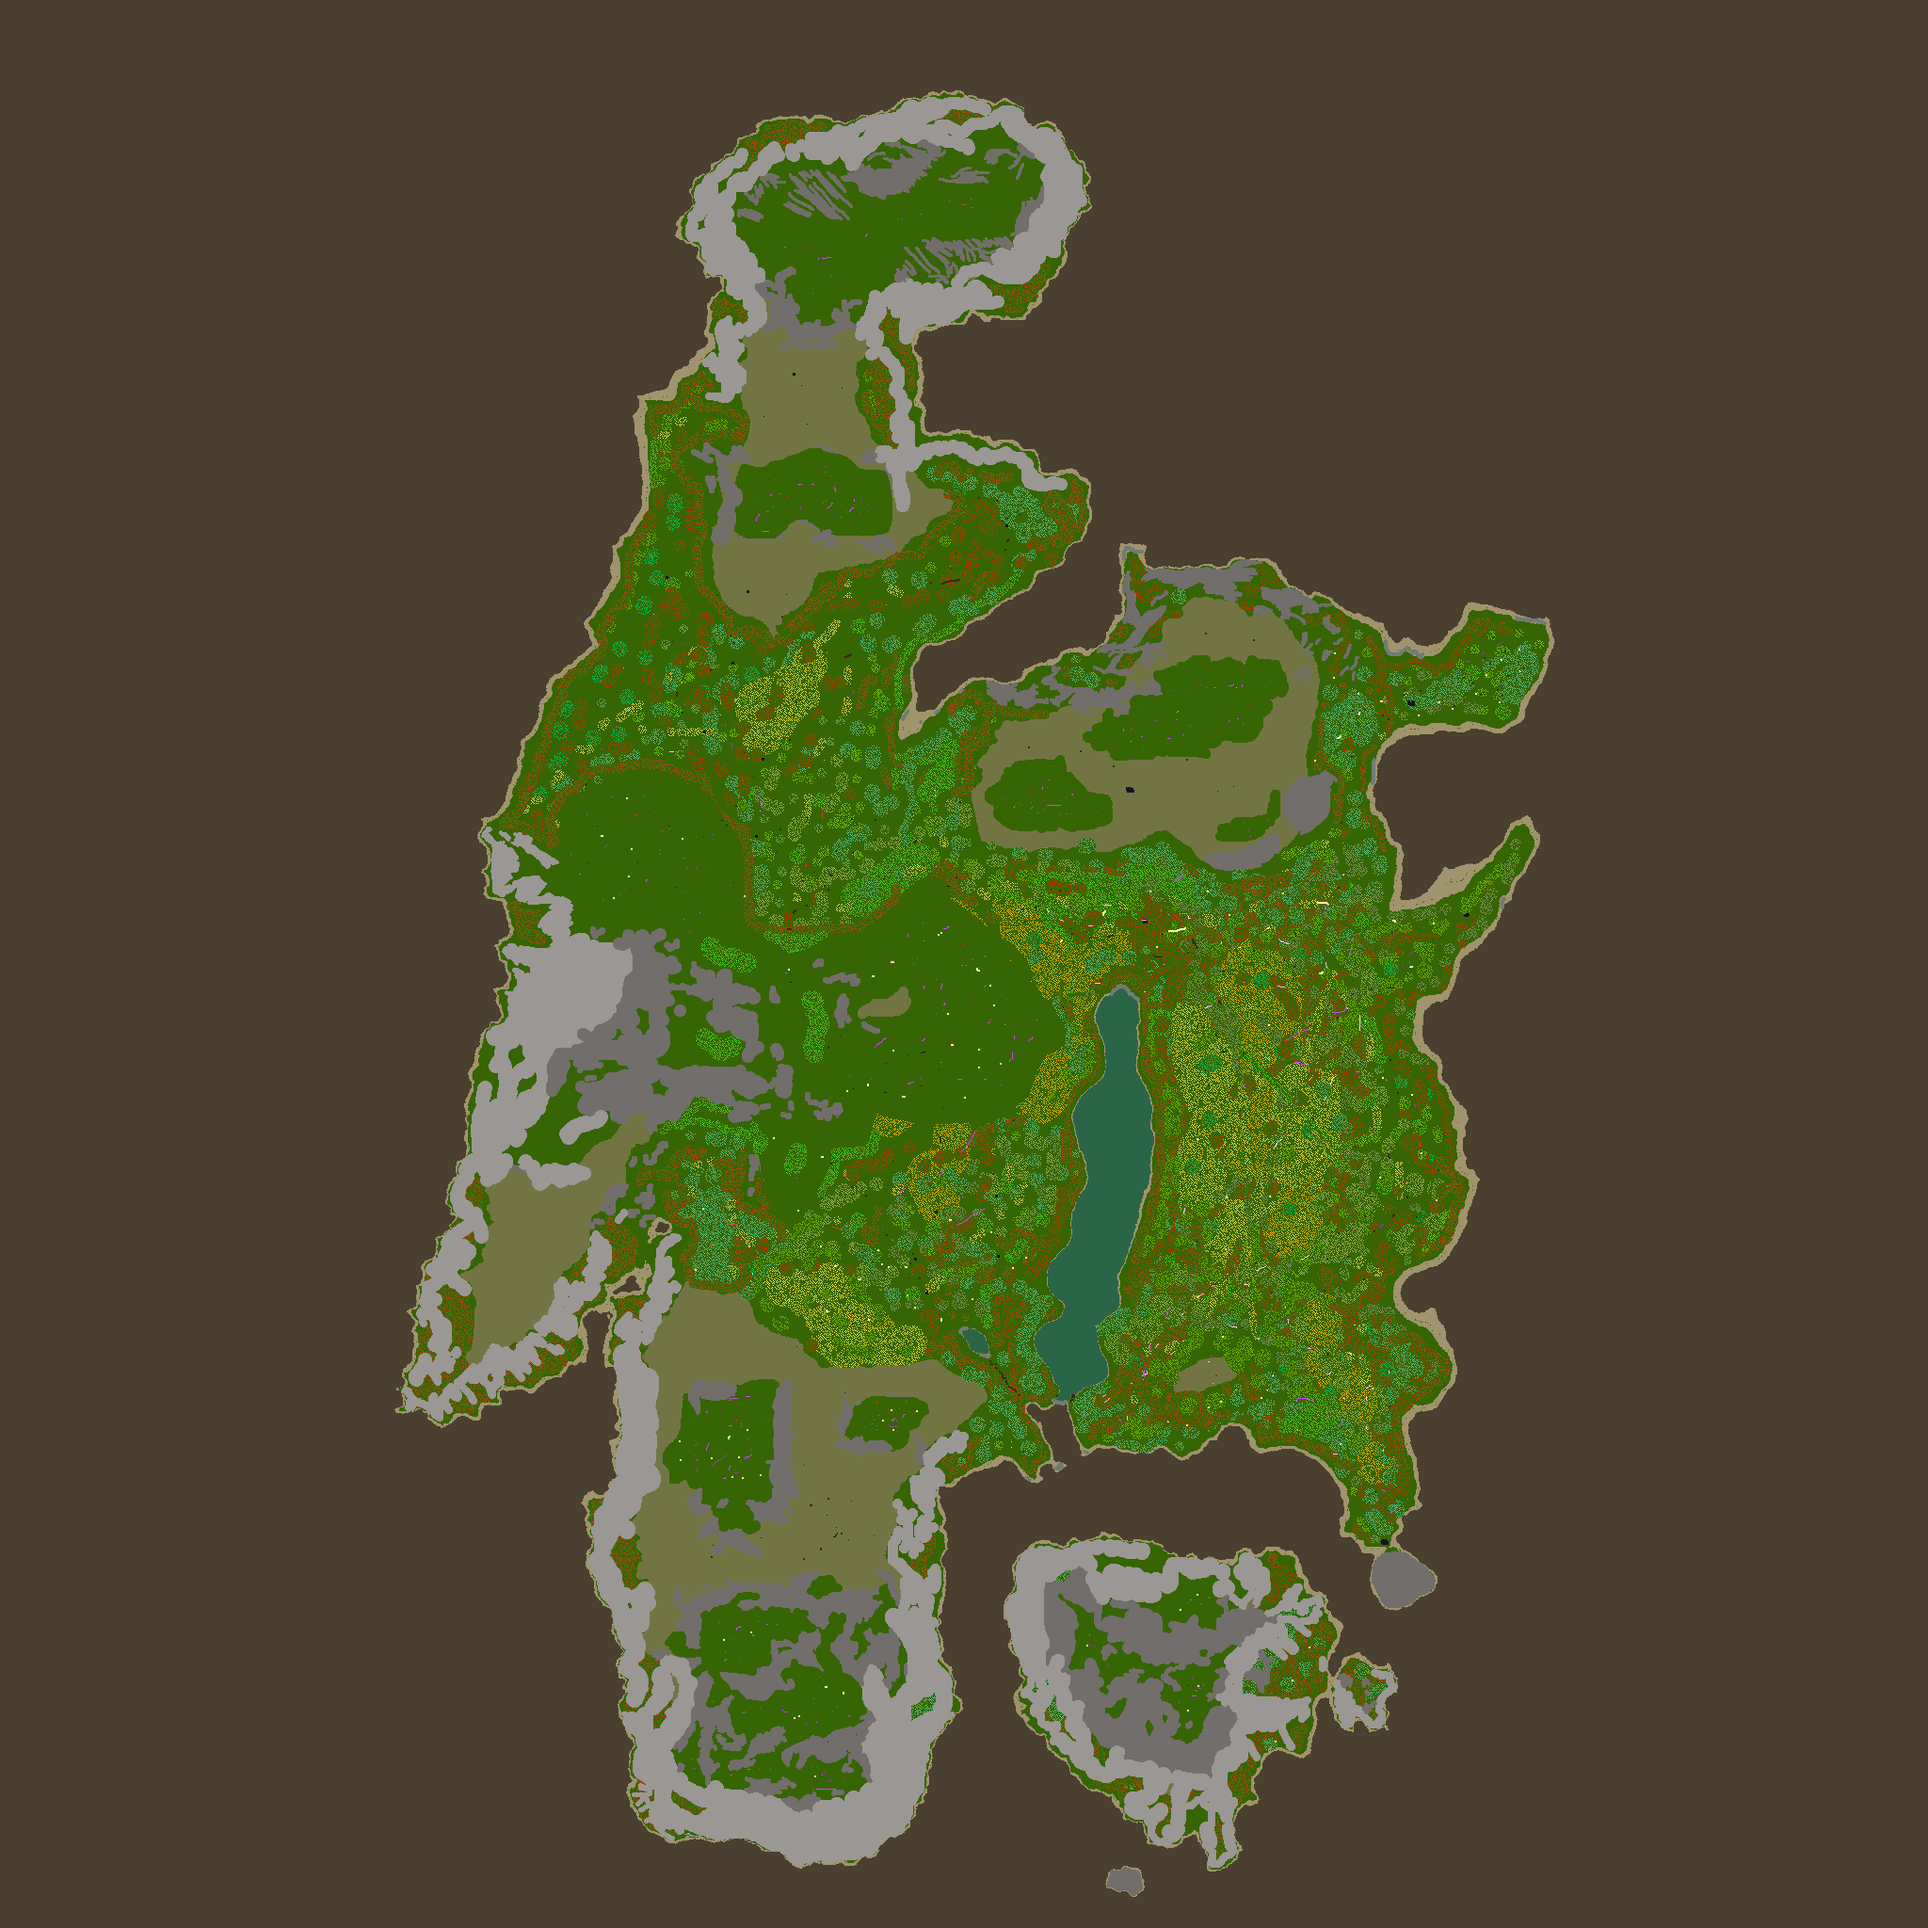
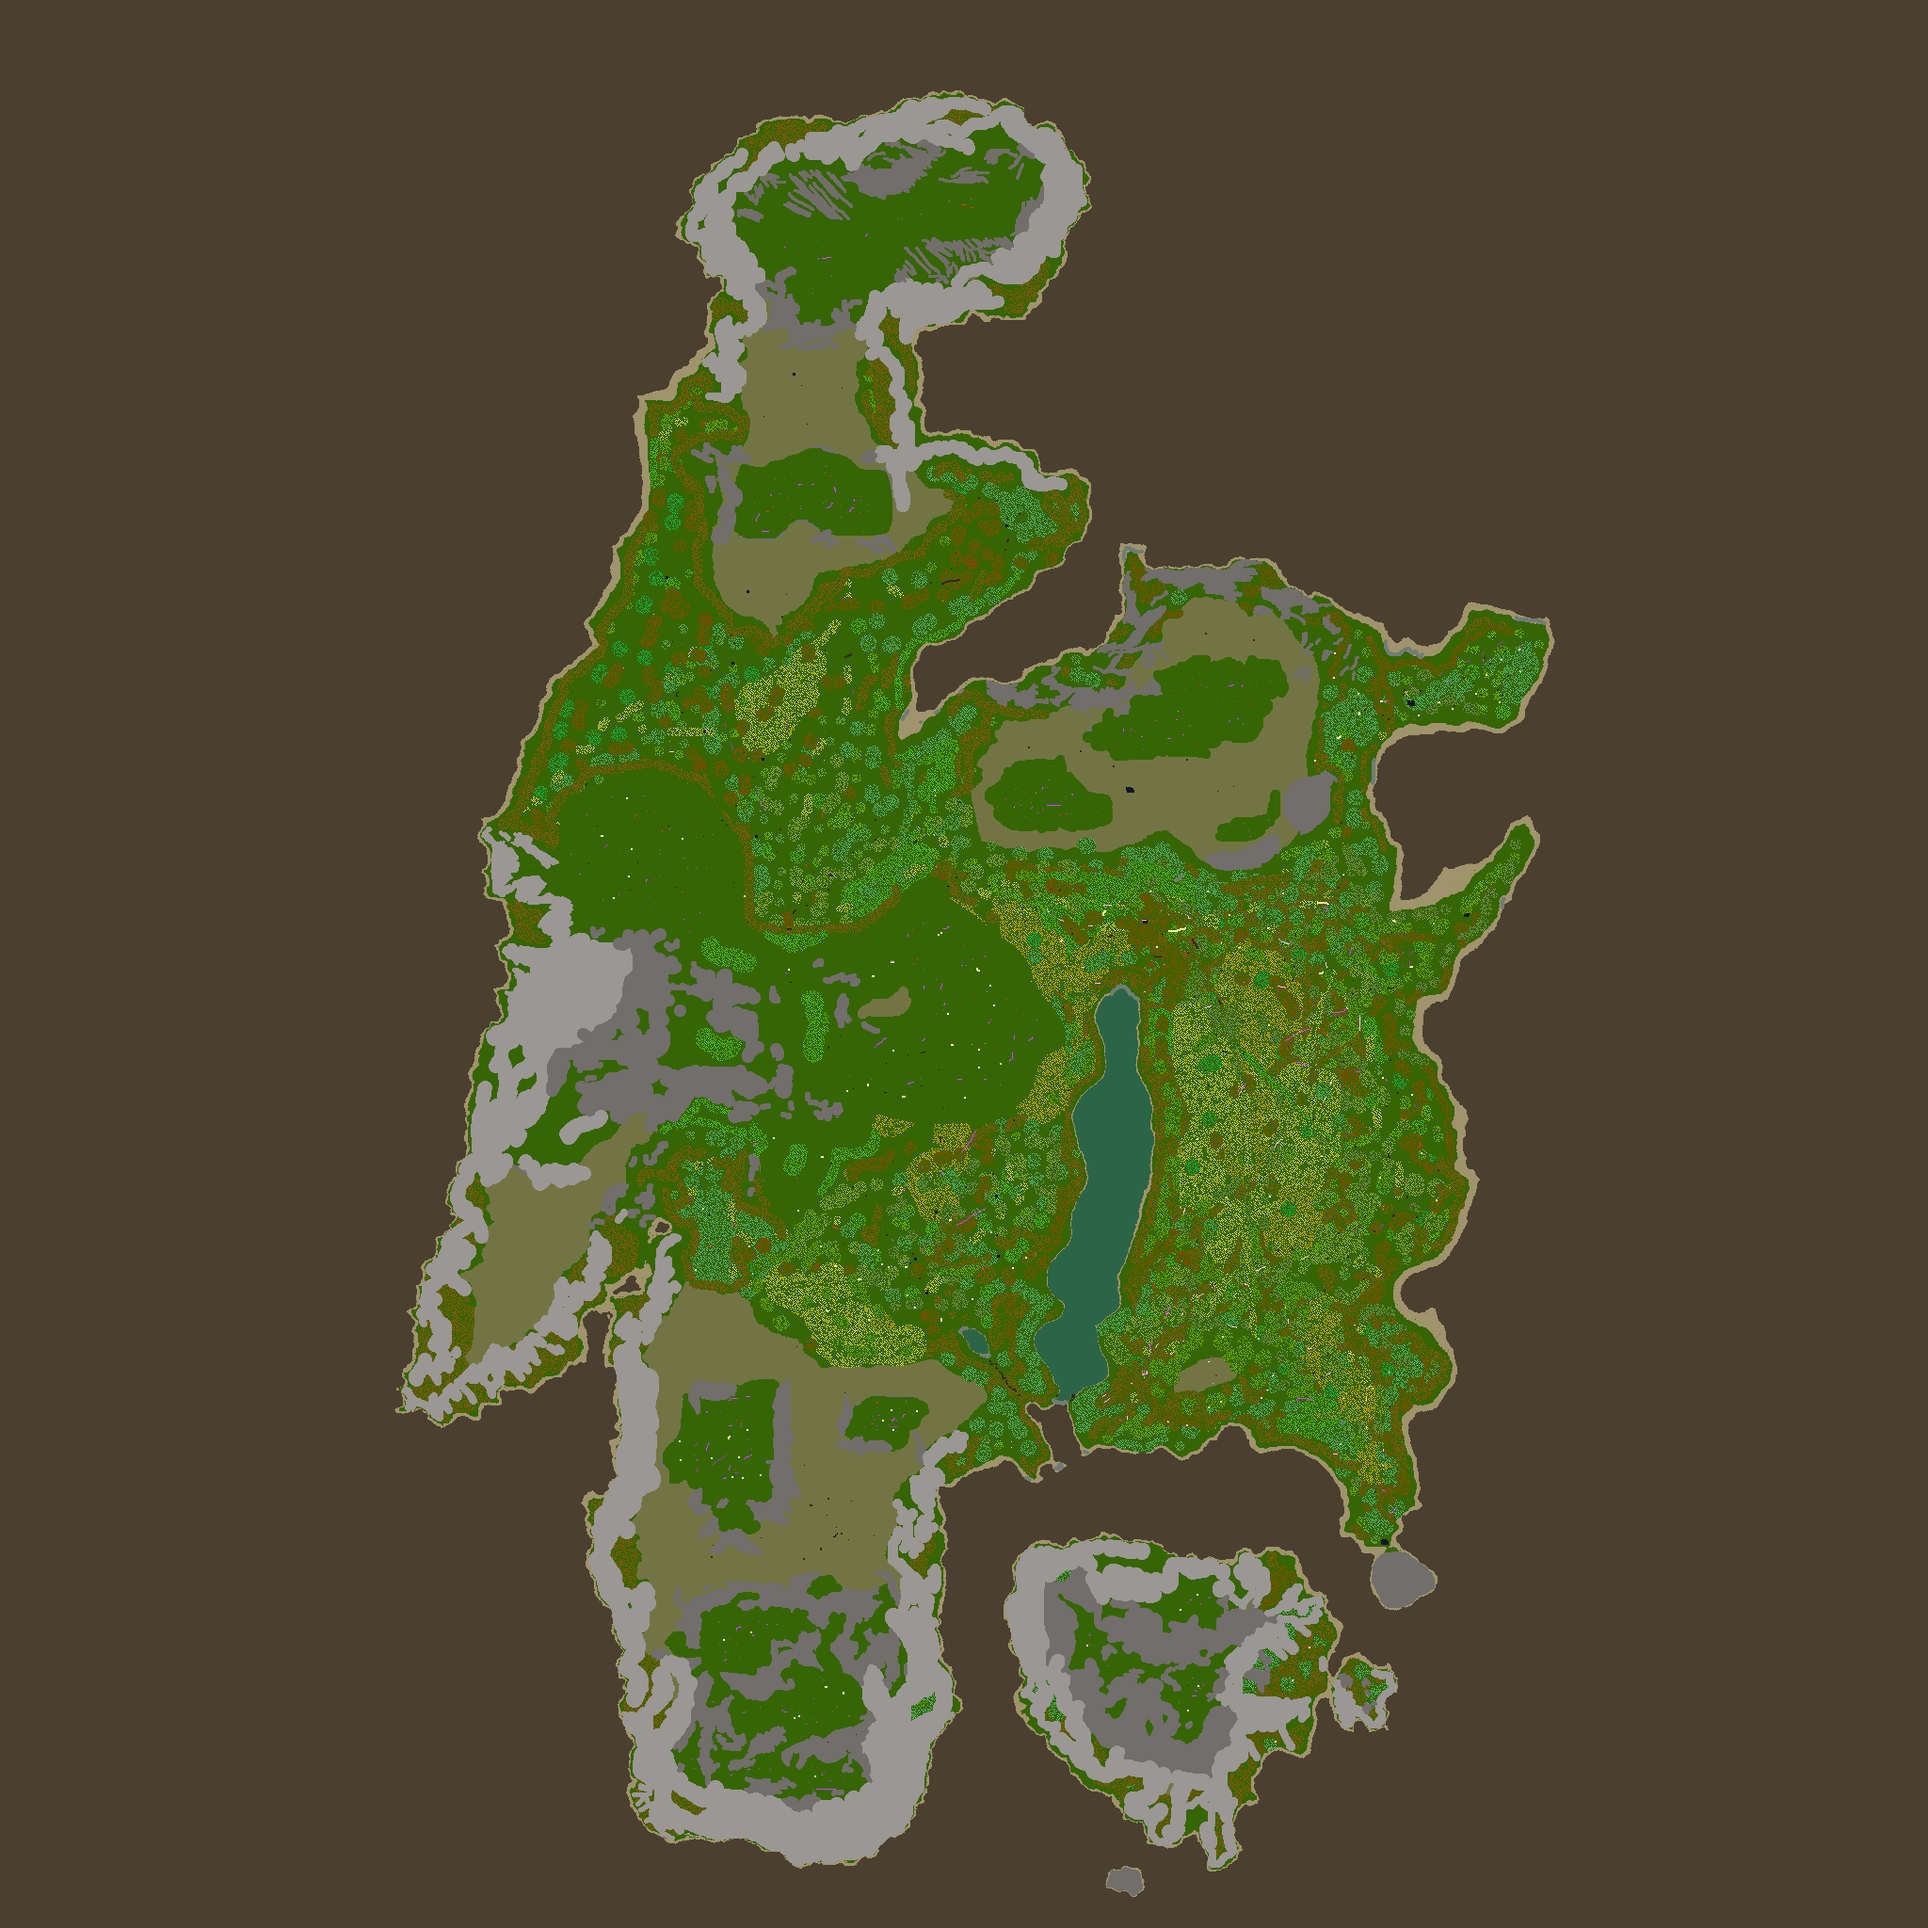
changed color for reed tiles

diff --git a/src/com/wurmonline/wurmapi/api/WurmMapUploader.java b/src/com/wurmonline/wurmapi/api/WurmMapUploader.java
@@ -63,7 +63,7 @@ public class WurmMapUploader {
 	public static final int DIRT_COLOR = -11845841;
 	public static final int MYCELIUM_COLOR = -12123597;
 	public static final int REED_COLOR = -13212353;
-	public static final int KELP_COLOR = -13212393;
+	public static final int KELP_COLOR = -10242775;
 	public static final int GRASS_COLOR = -13212413;
 	public static final int PEAT_COLOR = -13228256;
 	public static final int MARSH_COLOR = -13933240;

diff --git a/README.md b/README.md
@@ -134,7 +134,7 @@ Some terrain types are not supported in the current version of the uploader (for
 |TILE_GRASS with FlowerType.FLOWER_13|Grass|249|249|234|
 |TILE_GRASS with FlowerType.FLOWER_14|Grass|249|249|239|
 |TILE_GRASS with FlowerType.FLOWER_15|Grass|249|249|244|
-|TILE_KELP|Kelp|54|101|23|
+|TILE_KELP|Kelp|99|181|41|
 |TILE_LAVA|Lava|215|51|30|
 |TILE_MARSH|Marsh|43|101|72|
 |TILE_MOSS|Moss|106|142|56|
